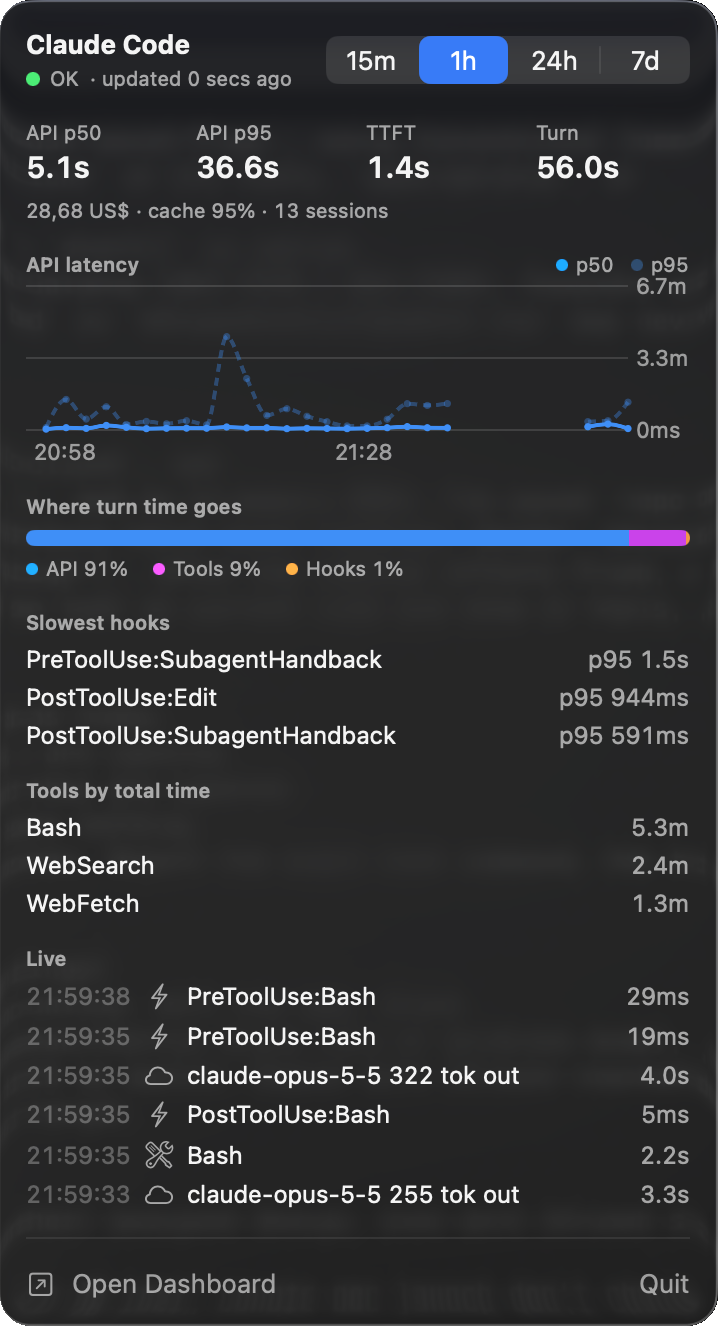
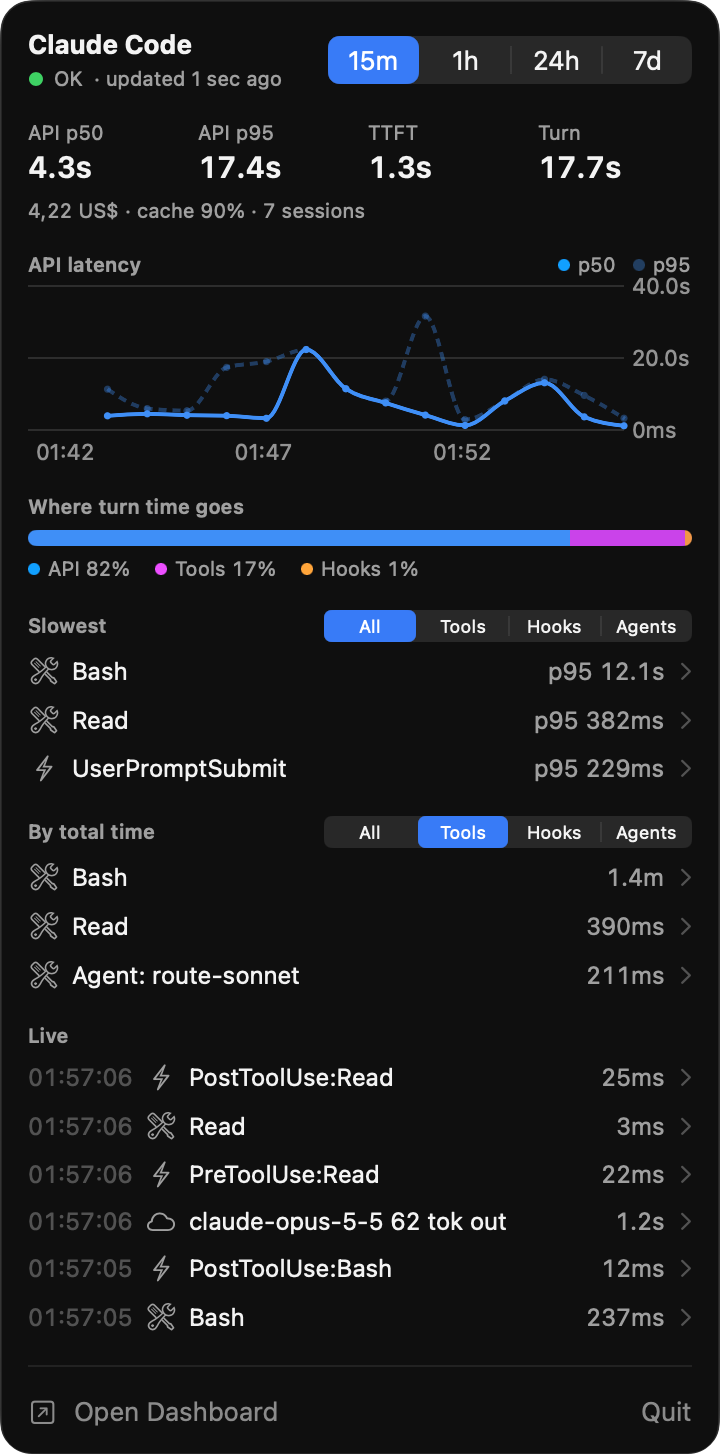
docs: refresh README menu bar panel screenshot
The old capture predates the filtered Slowest and By total time sections, kind icons and row detail chevrons.

diff --git a/README.md b/README.md
@@ -3,7 +3,7 @@
 A macOS menu bar widget that shows where your Claude Code turns spend their time: model latency, tools, hooks, skills, subagents and MCP startup. The data comes from Claude Code's own OpenTelemetry export. It is received and stored on your machine.
 
 <p align="center">
-  <img src="docs/screenshots/menubar-panel.png" alt="Menu bar panel with API latency, turn time split, slowest hooks, tools and live feed" width="360">
+  <img src="docs/screenshots/menubar-panel.png" alt="Menu bar panel with API latency, turn time split, slowest and total-time rankings, and live feed" width="360">
 </p>
 
 ## Menu bar widget
